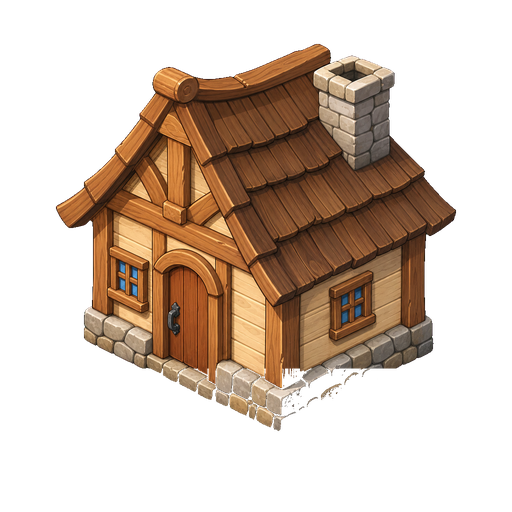
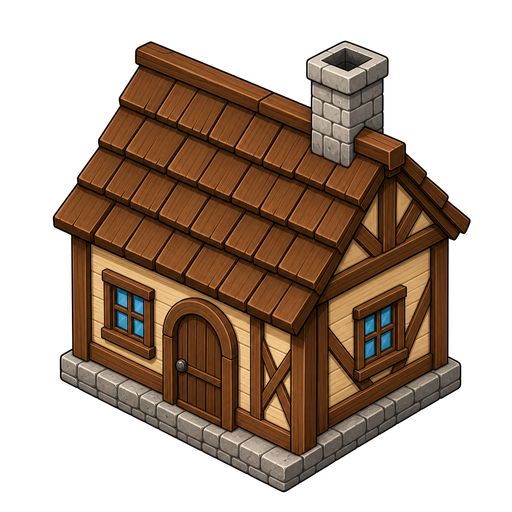
fix(village): 重生 house_brown.png（修右下角破損 artifact）
派派回報棕屋右下角原圖有 AI artifact（散落石頭 + 髒污 + 延伸走道）。
用 Codex image_gen 重生：512×512 RGBA、Tudor 木框風格、乾淨矩形石頭
基座包圍底部、無延伸、跟其他 4 棟同風格。
building image cache-bust v=6→v=7、explore.js v=32→v=33。

diff --git a/godot-demo2/explore.js b/godot-demo2/explore.js
@@ -36,7 +36,7 @@ class ExploreScene extends Phaser.Scene {
     config.buildings.forEach(b => {
       if (b.sprite && b.sprite.image) {
         if (!this.textures.exists(b.sprite.image)) {
-          this.load.image(b.sprite.image, this.assetBase + b.sprite.image + "?v=6");
+          this.load.image(b.sprite.image, this.assetBase + b.sprite.image + "?v=7");
         }
       }
     });

diff --git a/godot-demo2/index.html b/godot-demo2/index.html
@@ -39,6 +39,6 @@
 <div id="game"></div>
 <script src="https://cdn.jsdelivr.net/npm/phaser@3.80.1/dist/phaser.min.js"></script>
 <script src="https://cdn.jsdelivr.net/npm/phaser3-rex-plugins@1.1.84/dist/rexvirtualjoystickplugin.min.js"></script>
-<script src="explore.js?v=32"></script>
+<script src="explore.js?v=33"></script>
 </body>
 </html>